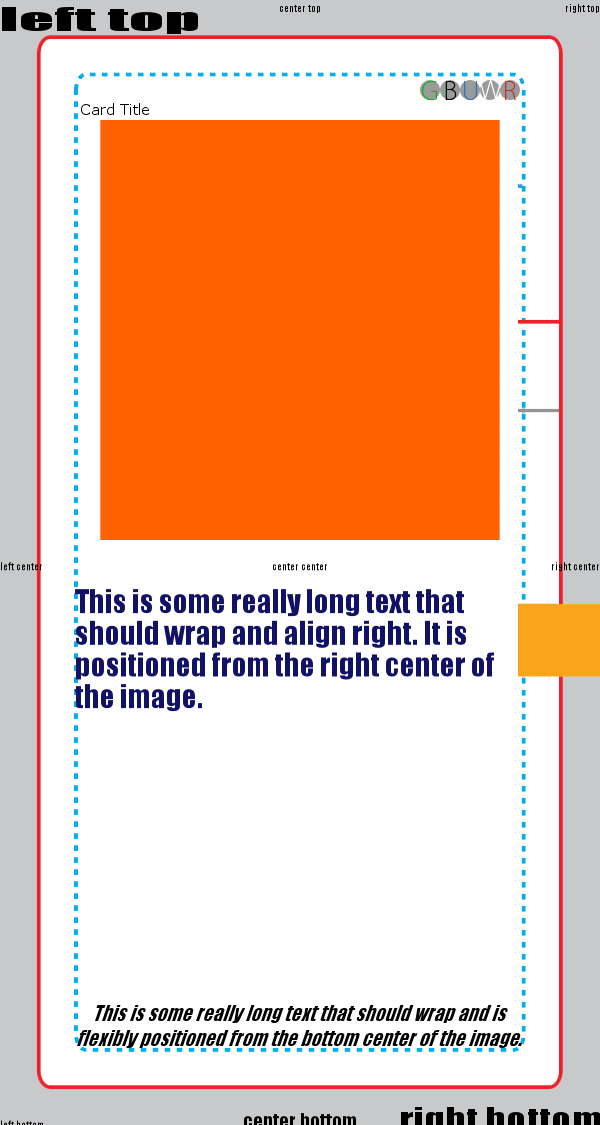
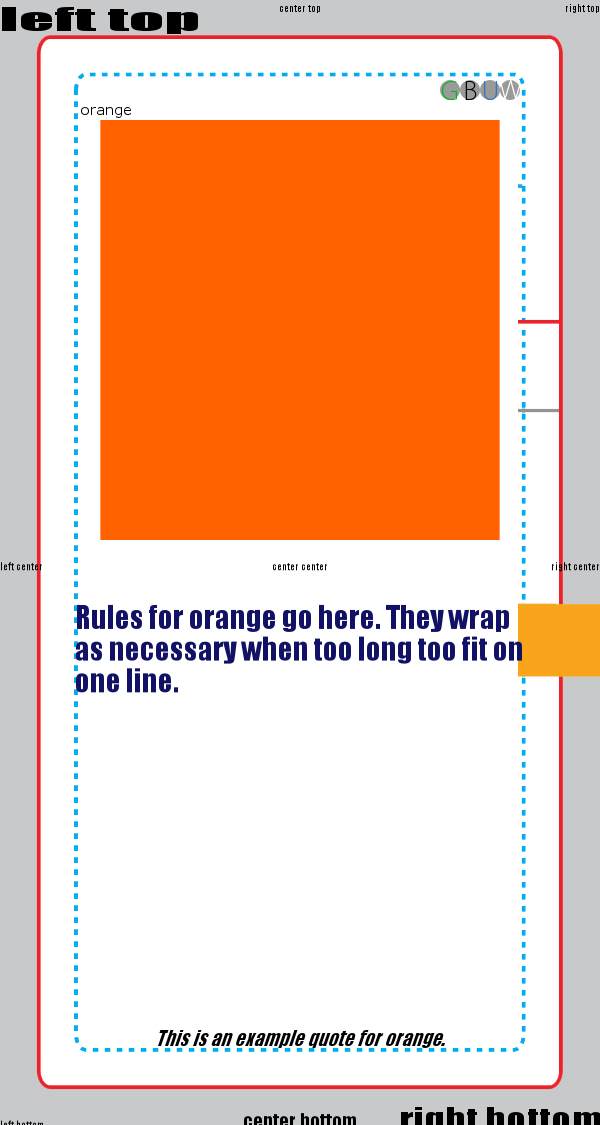
better example data

diff --git a/readme.md b/readme.md
@@ -17,8 +17,22 @@ There are two input objects required to build images.  A database or list of ite
 
 An example that uses nearly every feature can be found in the examples/all directory.
 
+Example documents can be found on Google Spreadsheets: https://docs.google.com/spreadsheets/d/1D4d-Fc-almcuSlrkN1ADMFvLvkQrOUwNbv7sFhlQZmA/
+
+
 ### Command Line
-`node ccgbuilder layout.csv items.csv`
+Usage: node ccgbuilder.js  [options]                                                                         
+                                                                                  
+Options:                                                                          
+  -e, --errorMode   On error: halt processing, ignore and continue, or delete     
+                    files matching output names                                   
+                         [choices: "halt", "ignore", "delete"] [default: "halt"]  
+  -q, --quiet       hide non-error log messages                 [default: false]  
+  -p, --prefix      Prefix for layout and item filenames           [default: ""]  
+  -l, --layout      Layout csv filename                  [default: "layout.csv"]  
+  -i, --item, --db  item db csv filename                  [default: "items.csv"]  
+  -h, --help        Show help                                          [boolean]  
+  
 
 ### Module
 Here's an example which loads a file in the current directory called "layout.csv" as the instruction and "items.csv" as the database.
